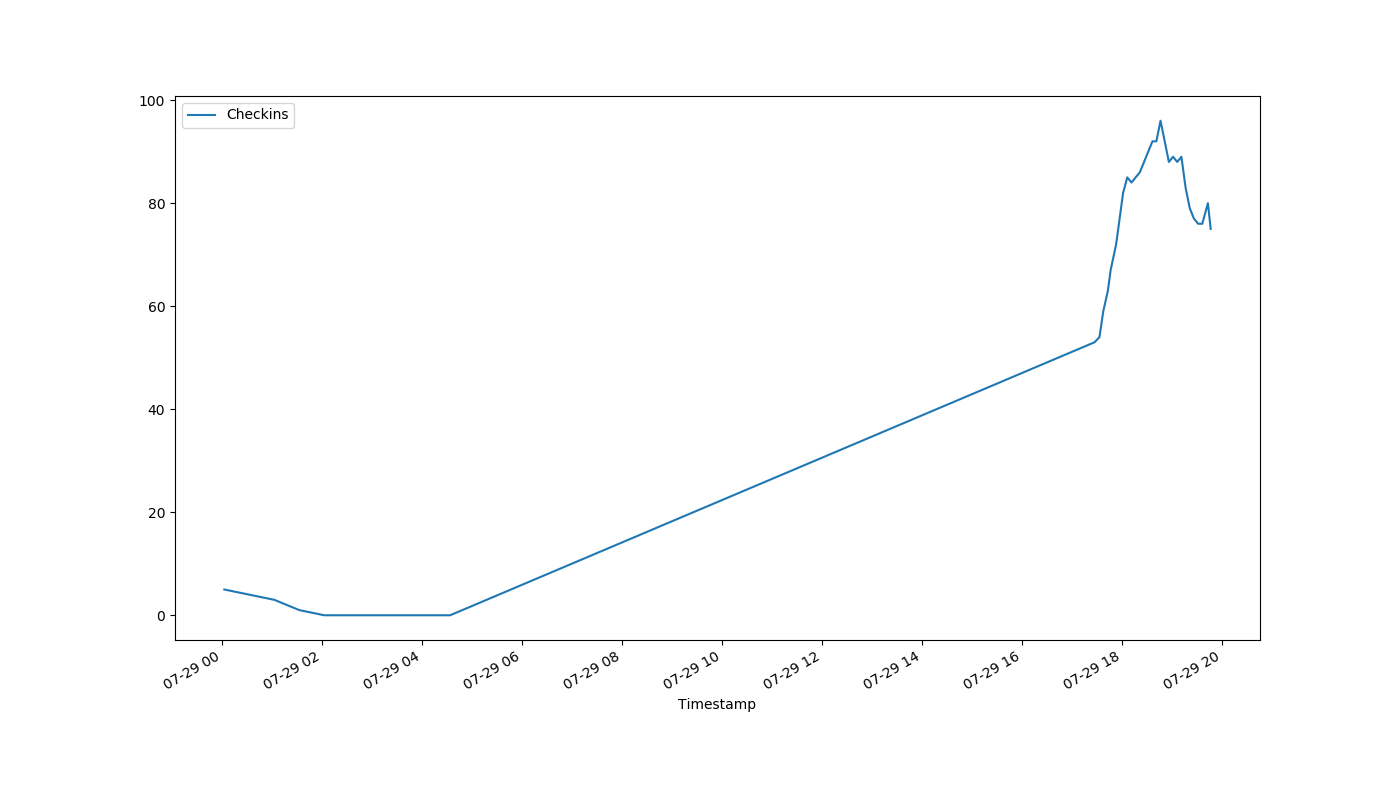
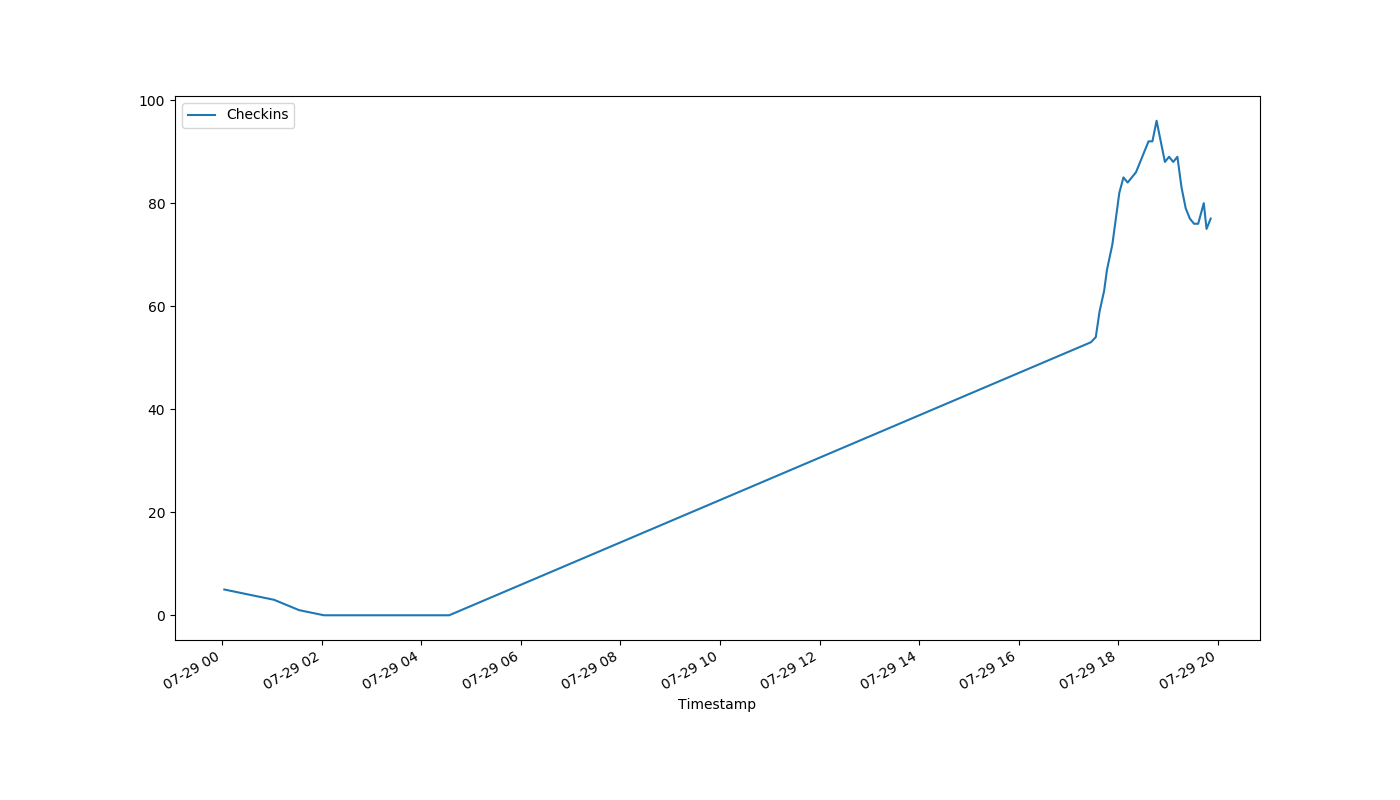
auto-Jul-29-19:52:56

diff --git a/index.html b/index.html
@@ -1,1 +1,1 @@
-<!DOCTYPE html><html><head><meta http-equiv="refresh" content="30"><link rel='stylesheet' href='holmcurrent.css'></head><body><p id='count'>75</p><div id='graph-wrap'><img id='graph' src='holmgraph-Jul-29.png'></div><p id='updated'>Last updated 19:47:04 / 19:46:11</p></body></html>
+<!DOCTYPE html><html><head><meta http-equiv="refresh" content="30"><link rel='stylesheet' href='holmcurrent.css'></head><body><p id='count'>77</p><div id='graph-wrap'><img id='graph' src='holmgraph-Jul-29.png'></div><p id='updated'>Last updated 19:52:04 / 19:51:12</p></body></html>
